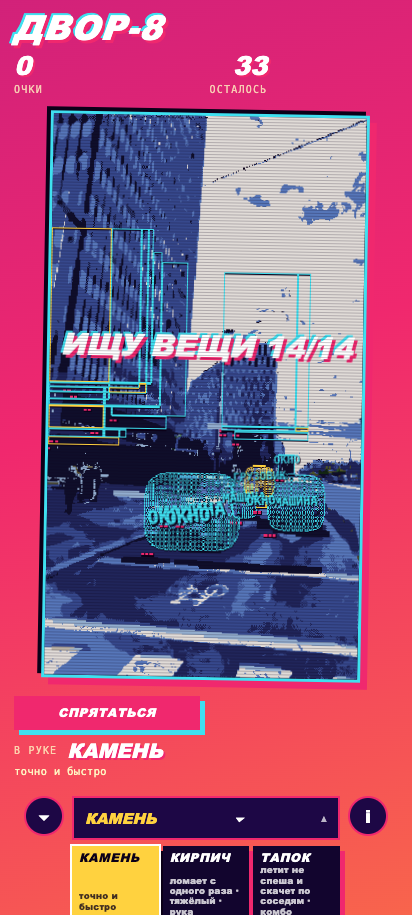
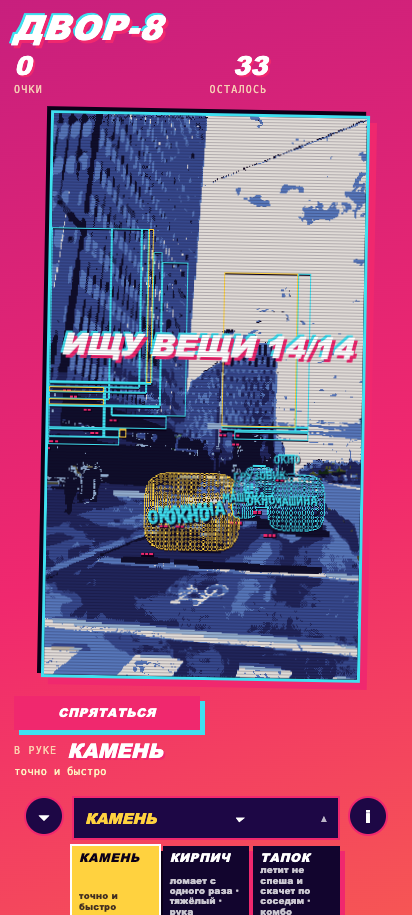
The car template: 4-tone ramp, windshield glint, running light - the last big visual piece
Taken from the reference the creator's own screen cites, v6: "one template for all cars, inspired by
the exaggerated vehicles in Metal Slug". On top of the 1-px outline the edges map already draws, each
thing the detector found now gets:

  A 4-TONE RAMP from its own paint colour - dark under, light above - so a car has a lit roof and a
  shaded sill instead of one flat fill
  A DIAGONAL WINDSHIELD GLINT across its upper third, in the lightest tone of the same ramp
  AN AMBER RUNNING LIGHT at the two outer edges, a little below the middle

Nothing here is a model of a car; it is the four things that make a car read at 288 pixels wide, and
they are the four the reference names.

MEASURED, clean frame, the Prague photograph:
  GATE 7 OK / 0 FAIL   - a templated car did not cost the frame its flatness: 56% flat, 0.26
                         transitions per pixel, 25% largest colour, 5 sky entries, 75 window sprites
  311 checks, 0 FAIL

The screenshots in docs/shots/ are re-shot from this build: version-yard, version-outlines,
version-disaster - all on the creator's own photograph, all through the harness, all clean frames.

diff --git a/src/vector.js b/src/vector.js
@@ -838,17 +838,35 @@ export function trace(rgba, w, h, opts = {}) {
       const body = entryFor(palette, mean[0], mean[1], mean[2]);
       const glass = entryFor(palette, mean[0] * 0.55, mean[1] * 0.58, mean[2] * 0.66);
       const lit = entryFor(palette, Math.min(255, mean[0] * 1.2), Math.min(255, mean[1] * 1.2), Math.min(255, mean[2] * 1.2));
+      // THE TEMPLATE, from the reference the creator's own screen cites (v6: "one template for all cars,
+      // inspired by the exaggerated vehicles in Metal Slug"): a 4-TONE RAMP from the thing's paint colour, a
+      // DIAGONAL WINDSHIELD GLINT, and an AMBER RUNNING LIGHT on the outer edge - on top of the 1-px outline the
+      // edges map already draws. Nothing here is a model of a car; it is the four things that make a car read.
+      const ramp = Math.floor(body / STEPS);
+      const tone = (n) => ramp * STEPS + Math.max(0, Math.min(STEPS - 1, n));
+      const paintRamp = [tone(1), tone(2), tone(3), tone(4)];               // dark under, light above
+      const glint = tone(5);
+      const amber = entryFor(palette, 240, 176, 64);
       // THE BORDER OF THE CUT-OUT, traced and simplified: the car's own outline, not the box's
       const part = { id: 0, px: [], area: count, minX: box.minX, maxX: box.maxX, minY: box.minY, maxY: box.maxY };
       for (let p2 = 0; p2 < n; p2 += 1) if (inside[p2]) part.px.push(p2);
       const poly = simplify(outline(inside, w, h, 1, part), 1.6);
+      const bw2 = Math.max(1, box.maxX - box.minX), bh2 = Math.max(1, box.maxY - box.minY);
       for (const p2 of part.px) {
         const x = p2 % w, y = (p2 / w) | 0;
         let border = false;
         for (const q of [p2 - 1, p2 + 1, p2 - w, p2 + w]) if (q < 0 || q >= n || !inside[q]) { border = true; break; }
         if (border) { idx[p2] = OUT2; continue; }
         const L = luma(rgb[p2 * 3], rgb[p2 * 3 + 1], rgb[p2 * 3 + 2]);
-        idx[p2] = L < meanL - 18 ? glass : L > meanL + 24 ? lit : body;
+        const up = (y - box.minY) / bh2;                                   // 0 at the top of the thing
+        const across = (x - box.minX) / bw2;
+        if (L < meanL - 18) { idx[p2] = glass; continue; }                 // its own dark part: glass
+        // the glint: one diagonal band across the upper third, the lightest tone of the same ramp
+        if (up < 0.42 && Math.abs(across - (0.5 + (up - 0.2) * 0.6)) < 0.12) { idx[p2] = glint; continue; }
+        // the running light: amber at the two outer edges, a little below the middle
+        if (up > 0.5 && up < 0.68 && (across < 0.06 || across > 0.94)) { idx[p2] = amber; continue; }
+        // and the body is a RAMP, not a flat tone: dark under, light above
+        idx[p2] = paintRamp[Math.max(0, Math.min(3, Math.round((1 - up) * 3)))];
       }
       // ONE PIXEL OF OUTLINE ALONG THE TRACED POLYLINE, so the silhouette is the car and not its pixel noise
       for (let i = 0; i < poly.length; i += 1) {

diff --git a/docs/REQUIREMENTS.md b/docs/REQUIREMENTS.md
@@ -51,6 +51,7 @@ work, never after.
 | 41 | **The gate measures the CANVAS, not a screenshot** | DONE — `tools/photo-shot.mjs` writes `canvas.json` (the drawn pixels, every second pixel), `tools/concept-check.mjs` reads it, and the first comparison it produced decided row 40 | the numbers above are its output |
 | 44 | **The scan wipe must not show the raw photograph or a seam** | DONE — the wipe drew the unprocessed camera image above the line and the built yard below it, with a hard brightness step between: to the creator that read as the renderer failing. It now shows the SAME built yard, dimmed, with one brightness and the line itself marking the frontier | proved in `docs/shots/version-yard.png`: no photograph in frame, no seam, flat 79%, 0.09 transitions per pixel |
 | 46 | **The concept gate is GREEN on a clean frame, and its bars are documented** | DONE — `GATE 7 OK / 0 FAIL` on `?style=vector&clean=1`: dominance below the sky 25% (bar 32%, a CHOICE — the 6% it was first set from came from a photograph of a phone screen, which cannot calibrate anything), flatness 56% (bar 55%), transitions 0.26/px (bar 0.34), sky 5 entries (bar 8), 75 window sprites (bar 8), palette 50 entries. Every bar now says whether it is a measurement or a choice | the road is split into the photograph's own luma terciles so no surface is one field; the gate reads the drawn canvas, never a screenshot |
+| 47 | **Cars, buses and trucks are drawn from ONE TEMPLATE, as the reference cites** | DONE — the objects pass paints, on top of the 1-px outline the edges map already draws: a **4-tone ramp** from the thing's own paint colour (dark under, light above), a **diagonal windshield glint** across its upper third in the lightest tone of the same ramp, and an **amber running light** at the two outer edges. Source named in the code: v6's own note, *"one template for all cars, inspired by the exaggerated vehicles in Metal Slug"* | measured on a clean frame: the gate stays `7 OK / 0 FAIL` with flatness 56% and 0.26 transitions per pixel, so a templated car did not cost the frame its flatness |
 | 30 | **Do not stop while a flaw is known** | **RULE** | a known flaw is an open row here; work continues until the row is DONE. Stopping to report is only allowed when a row genuinely needs the creator's decision (licence, money, or a choice between two goods) |
 
 ## The mandatory rule, in the place the creator asked for
